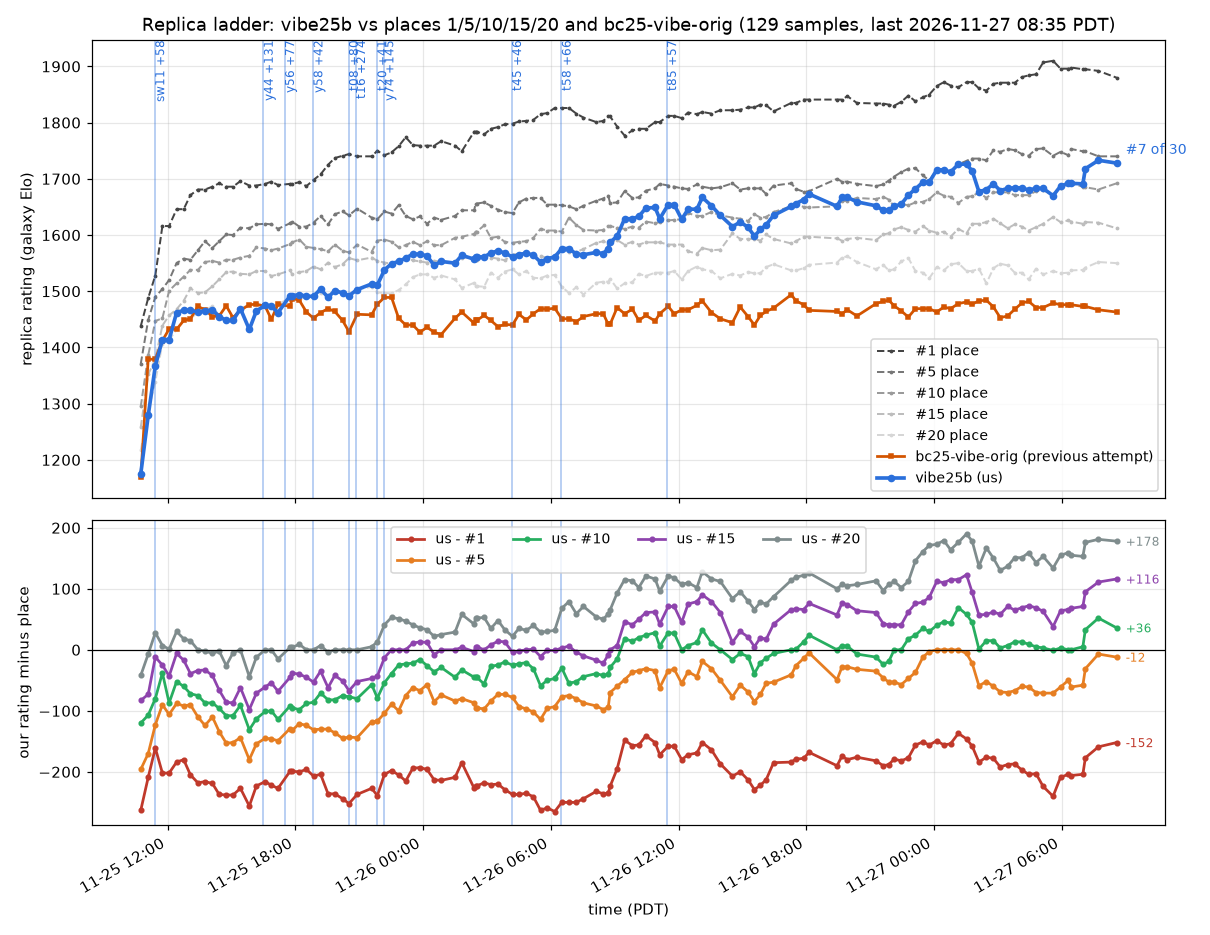
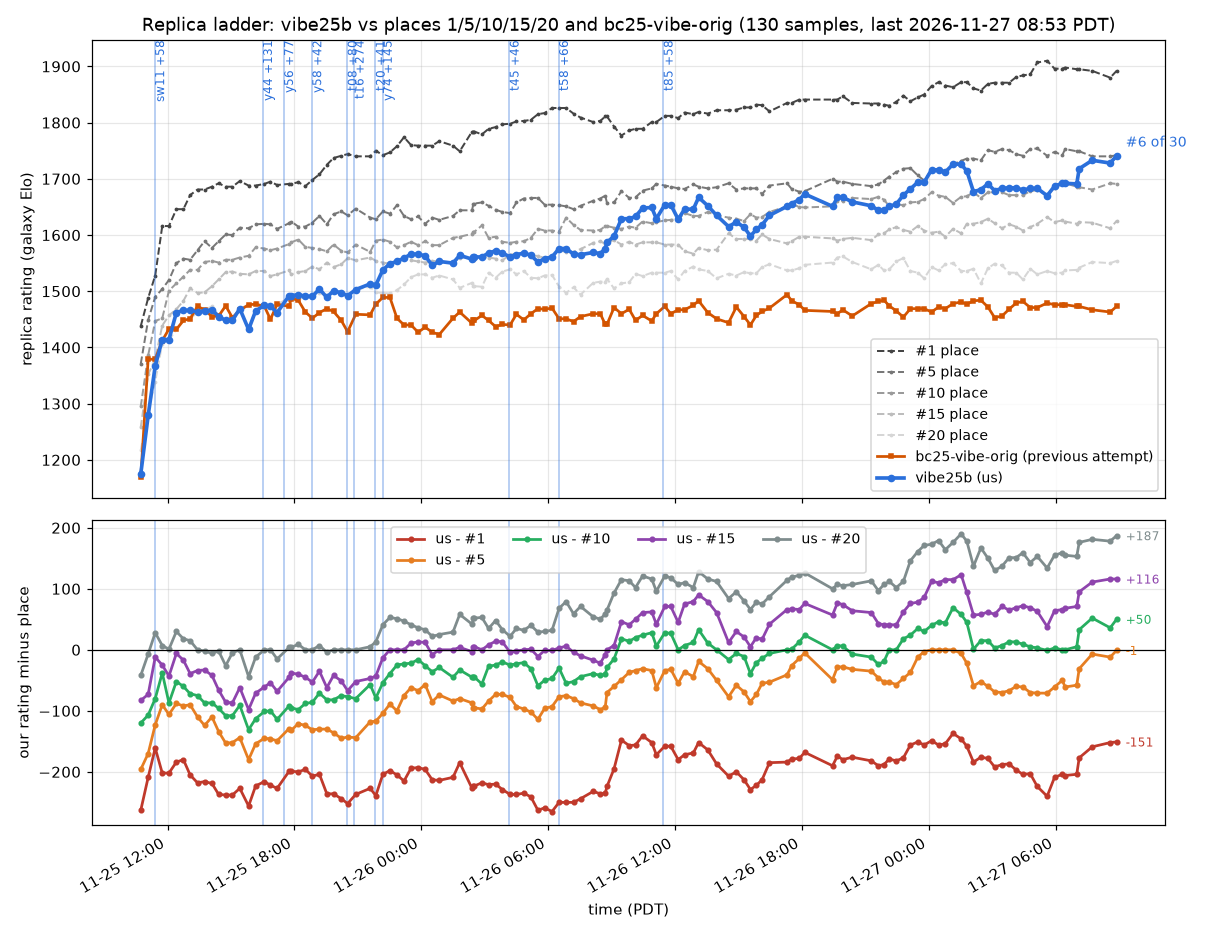
prod: replica record 1741 at #6 (t140); references now t118 + t122, retire t135 and t111; retire t143 (flat +1 after 552)
Claude-Session: https://claude.ai/code/session_01SzziPSCWtjsjju9cnThDf5

diff --git a/progress/local-elo.md b/progress/local-elo.md
@@ -1,55 +1,55 @@
 # Local tournament Elo
 
-Bradley-Terry ratings of our own bots in the local tournament (`tools/tourney.py`), all 149849 games in one fit as of 2026-11-27 08:46 PDT, so every point is on the same scale; earlier champions are shown at their current rating, and "Gain" is the rating over the champion it replaced. `tools/tourney.py rank` rewrites this table; `tools/tourney.py chart` also redraws the chart.
+Bradley-Terry ratings of our own bots in the local tournament (`tools/tourney.py`), all 150507 games in one fit as of 2026-11-27 09:01 PDT, so every point is on the same scale; earlier champions are shown at their current rating, and "Gain" is the rating over the champion it replaced. `tools/tourney.py rank` rewrites this table; `tools/tourney.py chart` also redraws the chart.
 
 ![local elo](local-elo.png)
 
 | Champion from (PDT) | Bot | Change on base | Submission | Rating +- SE | Gain | Games |
 |---|---|---|---:|---:|---:|---:|
-| 2026-11-25 08:28 | v01 | foundation bot |  | 168 +- 18 |  | 435 |
-| 2026-11-25 08:39 | v02 | nav wall-follow fix + bytecode guards on v01 | #6 | 233 +- 13 | +65 | 801 |
-| 2026-11-25 09:01 | y02 | paint-heavy tower mix + paint towers upgraded first on v02 | #7 | 292 +- 11 | +59 | 1080 |
-| 2026-11-25 09:49 | y06 | 3 opening soldiers instead of 2 on y02 | #35 | 313 +- 13 | +21 | 700 |
-| 2026-11-25 10:09 | sw06 | no moppers before r80; a third of spawns moppers after (field study 1) on y02 | #36 | 371 +- 12 | +79 | 863 |
-| 2026-11-25 11:04 | y11 | mid-game mix 3 moppers per 6 (soldier mopper splasher mopper soldier mopper) on sw06 | #37 | 403 +- 14 | +33 | 655 |
-| 2026-11-25 11:24 | sw11 | at most 1 helper soldier per ruin (more ruins claimed in parallel) on y11 | #38 | 461 +- 11 | +58 | 1159 |
-| 2026-11-25 12:24 | y17 | sw11 + moppers prefer enemies within r2 25 of our towers (sw12) on sw11 | #39 | 479 +- 12 | +18 | 871 |
-| 2026-11-25 12:44 | y19 | sw11 with soldiers joining an occupied ruin only when adjacent (r2<=2) on y17 | #40 | 515 +- 14 | +35 | 678 |
-| 2026-11-25 13:04 | y24 | y17 with mopper defence widened (DEFEND_R2 36 / bonus 80) on y19 | #41 | 549 +- 13 | +35 | 679 |
-| 2026-11-25 13:24 | y25 | y19 (adjacent-only ruin helping) + y17 tower-defending moppers on y24 | #42 | 559 +- 12 | +9 | 898 |
-| 2026-11-25 13:44 | sw16 | y25 + soldier siege: with no ruin and paint>=80 kite a known enemy tower within r2 64 on y25 | #43 | 583 +- 11 | +24 | 976 |
-| 2026-11-25 14:04 | sw17 | y28 (siege from 50 paint r2 100) + splasher siege (towers weigh 40; walk to known tower within r2 100 at paint>=100) on sw16 | #44 | 616 +- 10 | +33 | 1110 |
-| 2026-11-25 14:44 | y30 | y28 with soldier siege from 30 paint within r2 144 (no splasher siege) on sw17 | #45 | 633 +- 7 | +17 | 2377 |
-| 2026-11-25 16:30 | y44 | study 3 tactic 3 (enemy refill policy): return at 50% paint (soldier 100/splasher 100/mopper 40) + end-of-turn top-up from any adjacent ally tower on y30 | #46 | 763 +- 8 | +131 | 2250 |
-| 2026-11-25 17:30 | y56 | study 3 tactic 4 (tower churn): a drained L1 money tower with intact pattern and an ally adjacent disintegrates at >=2000 chips; adjacent robots re-complete it for a fresh 500 paint on y44 | #47 | 841 +- 10 | +77 | 1320 |
-| 2026-11-25 18:50 | y58 | study 3 tactic 2 (early soldiers paint patterns not coverage): exploring soldiers paint no coverage before r50 on y56 | #48 | 882 +- 11 | +42 | 997 |
-| 2026-11-25 19:30 | t04 | t02 (no coverage painting before r80) + t03 (units wait beside drained money towers and repair their pattern so churn fires; study 3 tactics 2 and 4) on y58 | #49 | 915 +- 11 | +33 | 1065 |
-| 2026-11-25 20:30 | t08 | study 4 2.2 (contested ruins): soldiers skip a ruin with enemy paint in its visible 5x5 (bad for 50 rounds) on t04 | #50 | 995 +- 13 | +80 | 775 |
-| 2026-11-25 20:50 | t16 | t12 (t08 + study 4 2.1 spawn freeze 8 rounds in 20 below 1000+cost) + study 4 2.4 money-first: builds money until 8 towers then paint while paint towers < n/5; paint first only if none (all towers known) on t08 | #51 | 1270 +- 12 | +274 | 1213 |
-| 2026-11-25 21:50 | t20 | study 4 2.3: splashers weight enemy towers 30 (was 12) in the splash score on t16 | #52 | 1311 +- 15 | +41 | 587 |
-| 2026-11-25 22:10 | y74 | unit audit (owner prompt #15): splash-grid bug fix (enemy tiles never scored) + moppers stop once enemy paint is in mop reach; built on t16 on t20 | #53 | 1455 +- 10 | +145 | 1255 |
-| 2026-11-25 23:10 | t25 | unit audit + top teams' unit mix (616 S / 662 X / 701 M): after r80 paint towers cycle soldier-splasher-mopper; money towers keep S M X M S M on y74 | #54 | 1492 +- 13 | +36 | 680 |
-| 2026-11-25 23:30 | t27 | top teams' splasher-heavy late mix pushed further: paint towers cycle soldier-splasher-splasher-mopper after r80 on t25 | #55 | 1514 +- 9 | +23 | 1554 |
-| 2026-11-26 00:30 | y95 | upgrade spare 1200 (was 800): chips stay for new towers longer on t27 | #56 | 1549 +- 9 | +35 | 1822 |
-| 2026-11-26 02:01 | t36 | late SRPs (study 4 2.6 / study 3 tactic 7): soldiers without a ruin build SRPs on the x%4==2 y%4==2 lattice from r100 with chips>=1000; splashers avoid repainting SRP secondary tiles on y95 | #57 | 1586 +- 11 | +37 | 977 |
-| 2026-11-26 02:50 | y110 | money towers upgrade only with 2500 chips beyond the cost+spare (was 1000): chips go to new towers and SRPs on t36 | #58 | 1617 +- 10 | +31 | 1260 |
-| 2026-11-26 03:30 | t42 | study 4 3.1 recovery: with every tower known and no money tower left the next ruin is a money tower on y110 | #59 | 1632 +- 10 | +15 | 1332 |
-| 2026-11-26 04:10 | t45 | study 3 tactic 1: after r40 towers spawn only with 1000 chips beyond the unit's cost (no 600-chip window) on t42 | #60 | 1678 +- 10 | +46 | 1226 |
-| 2026-11-26 04:50 | t47 | study 3 tactic 5: a mopper due in the cycle spawns even below the 1000 reserve when an enemy robot is within d2 20 of the tower on t45 | #61 | 1708 +- 7 | +29 | 2398 |
-| 2026-11-26 06:30 | t58 | study 5 2.3: a splasher that has not splashed for 8 rounds (while able to) explores instead of chasing the nearest non-ally tile on t47 | #62 | 1773 +- 11 | +66 | 1087 |
-| 2026-11-26 07:10 | t61 | study 5 2.1 (softened): money towers for builds 1-5; then one more paint tower per 4 towers on t58 | #63 | 1810 +- 11 | +36 | 938 |
-| 2026-11-26 07:30 | y155 | study 5 2.1 tuned: money towers for builds 1-6; then one more paint tower per 4 towers on t61 | #64 | 1841 +- 9 | +32 | 1615 |
-| 2026-11-26 08:27 | t70 | y155 + splashers weight enemy towers 30 (t68) + 2000+ chips makes the next tower a paint tower (y159) on y155 | #65 | 1869 +- 7 | +27 | 2530 |
-| 2026-11-26 09:47 | t74 | moppers weight enemy paint near ruins 40 (study 6 2.1c) on t70 | #66 | 1888 +- 8 | +19 | 2200 |
-| 2026-11-26 10:47 | y170 | soldiers make the next tower a paint tower at 1500+ chips (t63 tuning; was 2000) on t74 | #67 | 1884 +- 7 | -4 | 2823 |
-| 2026-11-26 11:27 | t85 | study 6 2.2 ruin denial from where the soldier stands: a soldier with no ruin paints empty tiles of a ruin the enemy is building; without walking to it on y170 | #68 | 1941 +- 7 | +58 | 2556 |
-| 2026-11-26 12:47 | t91 | study 7 2.5: moppers ignore ruins under enemy towers when weighting ruin paint on t85 | #69 | 1953 +- 5 | +12 | 5663 |
-| 2026-11-26 13:27 | y195 | study 7 2.1a: explore unseen tiles first; up to 16 random draws on t91 | #70 | 1967 +- 9 | +14 | 1349 |
-| 2026-11-26 14:12 | y197 | ruin denial stops at 2 of our tiles (tuning of study 6 2.2) on y195 | #71 | 1983 +- 7 | +16 | 2235 |
-| 2026-11-26 15:27 | y211 | study 7 2.1a tuned: up to 128 random draws for an unseen explore target (was 16) on y197 | #72 | 1986 +- 6 | +3 | 4141 |
-| 2026-11-26 17:47 | y221 | study 8 2.2 (paint the first tower's pattern on the way in; a second soldier on the first ruin) + explore timeout 90; first champion through the confirmation stage (owner #46) on y211 | #73 | 2022 +- 5 | +36 | 6990 |
-| 2026-11-26 19:34 | t111 | splashers attack enemy paint/money towers from a stand-off tile outside their range (study 8 2.4) on y221 | #74 | 2036 +- 5 | +14 | 7334 |
-| 2026-11-26 23:27 | t118 | study 9 2.1b: a soldier on a blocked pattern with no own mopper or splasher in view gives up after 5 turns (was 25); confirmed +71 +-29 in 153 fresh games on t111 | #75 | 2070 +- 5 | +34 | 6555 |
-| 2026-11-27 01:07 | t122 | study 9 2.4: paint-tower dry flags expire after 10 rounds (was 40) and a flagged tower in sight is re-sensed; confirmed +6 +-19 in 378 fresh games; +16 overall on t118 | #76 | 2084 +- 4 | +14 | 9927 |
-| 2026-11-27 06:10 | t135 | study 10 2.6d: a soldier with no other soldier in view skips the 25-paint pattern mark (the top teams never mark); confirmed +9 +-22 in 262 fresh games; +14 overall on t122 | #77 | 2083 +- 6 | -1 | 5572 |
-| 2026-11-27 08:28 | t140 | study 11 2.1: free single marks (rc.mark on the 5x5 outer ring) replace the 25-paint pattern mark; marks re-read beside the ruin; confirmed +40 +-23 in 251 fresh games; +30 overall on t135 | #78 | 2115 +- 13 | +32 | 817 |
+| 2026-11-25 08:28 | v01 | foundation bot |  | 169 +- 18 |  | 435 |
+| 2026-11-25 08:39 | v02 | nav wall-follow fix + bytecode guards on v01 | #6 | 234 +- 13 | +65 | 801 |
+| 2026-11-25 09:01 | y02 | paint-heavy tower mix + paint towers upgraded first on v02 | #7 | 293 +- 11 | +59 | 1080 |
+| 2026-11-25 09:49 | y06 | 3 opening soldiers instead of 2 on y02 | #35 | 314 +- 13 | +21 | 700 |
+| 2026-11-25 10:09 | sw06 | no moppers before r80; a third of spawns moppers after (field study 1) on y02 | #36 | 372 +- 12 | +79 | 863 |
+| 2026-11-25 11:04 | y11 | mid-game mix 3 moppers per 6 (soldier mopper splasher mopper soldier mopper) on sw06 | #37 | 405 +- 14 | +33 | 655 |
+| 2026-11-25 11:24 | sw11 | at most 1 helper soldier per ruin (more ruins claimed in parallel) on y11 | #38 | 463 +- 11 | +58 | 1159 |
+| 2026-11-25 12:24 | y17 | sw11 + moppers prefer enemies within r2 25 of our towers (sw12) on sw11 | #39 | 481 +- 12 | +18 | 871 |
+| 2026-11-25 12:44 | y19 | sw11 with soldiers joining an occupied ruin only when adjacent (r2<=2) on y17 | #40 | 516 +- 14 | +35 | 678 |
+| 2026-11-25 13:04 | y24 | y17 with mopper defence widened (DEFEND_R2 36 / bonus 80) on y19 | #41 | 551 +- 13 | +35 | 679 |
+| 2026-11-25 13:24 | y25 | y19 (adjacent-only ruin helping) + y17 tower-defending moppers on y24 | #42 | 560 +- 12 | +9 | 898 |
+| 2026-11-25 13:44 | sw16 | y25 + soldier siege: with no ruin and paint>=80 kite a known enemy tower within r2 64 on y25 | #43 | 584 +- 11 | +24 | 976 |
+| 2026-11-25 14:04 | sw17 | y28 (siege from 50 paint r2 100) + splasher siege (towers weigh 40; walk to known tower within r2 100 at paint>=100) on sw16 | #44 | 617 +- 10 | +33 | 1110 |
+| 2026-11-25 14:44 | y30 | y28 with soldier siege from 30 paint within r2 144 (no splasher siege) on sw17 | #45 | 634 +- 7 | +17 | 2377 |
+| 2026-11-25 16:30 | y44 | study 3 tactic 3 (enemy refill policy): return at 50% paint (soldier 100/splasher 100/mopper 40) + end-of-turn top-up from any adjacent ally tower on y30 | #46 | 765 +- 8 | +131 | 2250 |
+| 2026-11-25 17:30 | y56 | study 3 tactic 4 (tower churn): a drained L1 money tower with intact pattern and an ally adjacent disintegrates at >=2000 chips; adjacent robots re-complete it for a fresh 500 paint on y44 | #47 | 842 +- 10 | +77 | 1320 |
+| 2026-11-25 18:50 | y58 | study 3 tactic 2 (early soldiers paint patterns not coverage): exploring soldiers paint no coverage before r50 on y56 | #48 | 884 +- 11 | +42 | 997 |
+| 2026-11-25 19:30 | t04 | t02 (no coverage painting before r80) + t03 (units wait beside drained money towers and repair their pattern so churn fires; study 3 tactics 2 and 4) on y58 | #49 | 917 +- 11 | +33 | 1065 |
+| 2026-11-25 20:30 | t08 | study 4 2.2 (contested ruins): soldiers skip a ruin with enemy paint in its visible 5x5 (bad for 50 rounds) on t04 | #50 | 997 +- 13 | +80 | 775 |
+| 2026-11-25 20:50 | t16 | t12 (t08 + study 4 2.1 spawn freeze 8 rounds in 20 below 1000+cost) + study 4 2.4 money-first: builds money until 8 towers then paint while paint towers < n/5; paint first only if none (all towers known) on t08 | #51 | 1271 +- 12 | +274 | 1213 |
+| 2026-11-25 21:50 | t20 | study 4 2.3: splashers weight enemy towers 30 (was 12) in the splash score on t16 | #52 | 1312 +- 15 | +41 | 587 |
+| 2026-11-25 22:10 | y74 | unit audit (owner prompt #15): splash-grid bug fix (enemy tiles never scored) + moppers stop once enemy paint is in mop reach; built on t16 on t20 | #53 | 1457 +- 10 | +145 | 1255 |
+| 2026-11-25 23:10 | t25 | unit audit + top teams' unit mix (616 S / 662 X / 701 M): after r80 paint towers cycle soldier-splasher-mopper; money towers keep S M X M S M on y74 | #54 | 1493 +- 13 | +36 | 680 |
+| 2026-11-25 23:30 | t27 | top teams' splasher-heavy late mix pushed further: paint towers cycle soldier-splasher-splasher-mopper after r80 on t25 | #55 | 1516 +- 9 | +23 | 1554 |
+| 2026-11-26 00:30 | y95 | upgrade spare 1200 (was 800): chips stay for new towers longer on t27 | #56 | 1551 +- 9 | +35 | 1822 |
+| 2026-11-26 02:01 | t36 | late SRPs (study 4 2.6 / study 3 tactic 7): soldiers without a ruin build SRPs on the x%4==2 y%4==2 lattice from r100 with chips>=1000; splashers avoid repainting SRP secondary tiles on y95 | #57 | 1588 +- 11 | +37 | 977 |
+| 2026-11-26 02:50 | y110 | money towers upgrade only with 2500 chips beyond the cost+spare (was 1000): chips go to new towers and SRPs on t36 | #58 | 1619 +- 10 | +31 | 1260 |
+| 2026-11-26 03:30 | t42 | study 4 3.1 recovery: with every tower known and no money tower left the next ruin is a money tower on y110 | #59 | 1633 +- 10 | +15 | 1332 |
+| 2026-11-26 04:10 | t45 | study 3 tactic 1: after r40 towers spawn only with 1000 chips beyond the unit's cost (no 600-chip window) on t42 | #60 | 1680 +- 10 | +46 | 1226 |
+| 2026-11-26 04:50 | t47 | study 3 tactic 5: a mopper due in the cycle spawns even below the 1000 reserve when an enemy robot is within d2 20 of the tower on t45 | #61 | 1709 +- 7 | +29 | 2398 |
+| 2026-11-26 06:30 | t58 | study 5 2.3: a splasher that has not splashed for 8 rounds (while able to) explores instead of chasing the nearest non-ally tile on t47 | #62 | 1775 +- 11 | +66 | 1087 |
+| 2026-11-26 07:10 | t61 | study 5 2.1 (softened): money towers for builds 1-5; then one more paint tower per 4 towers on t58 | #63 | 1811 +- 11 | +36 | 938 |
+| 2026-11-26 07:30 | y155 | study 5 2.1 tuned: money towers for builds 1-6; then one more paint tower per 4 towers on t61 | #64 | 1843 +- 9 | +32 | 1615 |
+| 2026-11-26 08:27 | t70 | y155 + splashers weight enemy towers 30 (t68) + 2000+ chips makes the next tower a paint tower (y159) on y155 | #65 | 1870 +- 7 | +27 | 2530 |
+| 2026-11-26 09:47 | t74 | moppers weight enemy paint near ruins 40 (study 6 2.1c) on t70 | #66 | 1889 +- 8 | +19 | 2200 |
+| 2026-11-26 10:47 | y170 | soldiers make the next tower a paint tower at 1500+ chips (t63 tuning; was 2000) on t74 | #67 | 1885 +- 7 | -4 | 2823 |
+| 2026-11-26 11:27 | t85 | study 6 2.2 ruin denial from where the soldier stands: a soldier with no ruin paints empty tiles of a ruin the enemy is building; without walking to it on y170 | #68 | 1943 +- 7 | +58 | 2556 |
+| 2026-11-26 12:47 | t91 | study 7 2.5: moppers ignore ruins under enemy towers when weighting ruin paint on t85 | #69 | 1955 +- 5 | +12 | 5663 |
+| 2026-11-26 13:27 | y195 | study 7 2.1a: explore unseen tiles first; up to 16 random draws on t91 | #70 | 1968 +- 9 | +14 | 1349 |
+| 2026-11-26 14:12 | y197 | ruin denial stops at 2 of our tiles (tuning of study 6 2.2) on y195 | #71 | 1984 +- 7 | +16 | 2235 |
+| 2026-11-26 15:27 | y211 | study 7 2.1a tuned: up to 128 random draws for an unseen explore target (was 16) on y197 | #72 | 1988 +- 6 | +3 | 4141 |
+| 2026-11-26 17:47 | y221 | study 8 2.2 (paint the first tower's pattern on the way in; a second soldier on the first ruin) + explore timeout 90; first champion through the confirmation stage (owner #46) on y211 | #73 | 2023 +- 5 | +36 | 6990 |
+| 2026-11-26 19:34 | t111 | splashers attack enemy paint/money towers from a stand-off tile outside their range (study 8 2.4) on y221 | #74 | 2037 +- 5 | +14 | 7428 |
+| 2026-11-26 23:27 | t118 | study 9 2.1b: a soldier on a blocked pattern with no own mopper or splasher in view gives up after 5 turns (was 25); confirmed +71 +-29 in 153 fresh games on t111 | #75 | 2071 +- 5 | +33 | 6663 |
+| 2026-11-27 01:07 | t122 | study 9 2.4: paint-tower dry flags expire after 10 rounds (was 40) and a flagged tower in sight is re-sensed; confirmed +6 +-19 in 378 fresh games; +16 overall on t118 | #76 | 2085 +- 4 | +14 | 9927 |
+| 2026-11-27 06:10 | t135 | study 10 2.6d: a soldier with no other soldier in view skips the 25-paint pattern mark (the top teams never mark); confirmed +9 +-22 in 262 fresh games; +14 overall on t122 | #77 | 2085 +- 6 | +0 | 5669 |
+| 2026-11-27 08:28 | t140 | study 11 2.1: free single marks (rc.mark on the 5x5 outer ring) replace the 25-paint pattern mark; marks re-read beside the ruin; confirmed +40 +-23 in 251 fresh games; +30 overall on t135 | #78 | 2116 +- 10 | +31 | 1276 |
